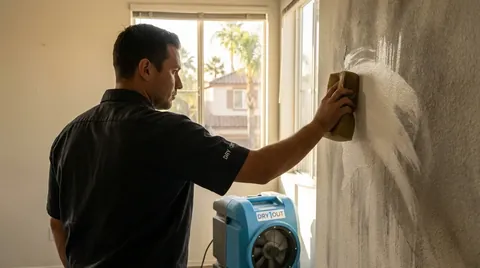
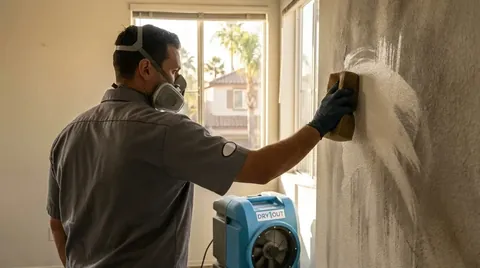
DEV AGENT: dry1-out-restoration-and-construction — blog + service images: real white Sprinter, gray uniform, no made-up marks (staging, REVIEW HOLD)
Cole, 2026-10-19 (SMS, screenshot of the blog listing): "And please make sure
our branding is consistent on everything." and 10-22: "And the photo on the
front page needs to be changed as well to reflect the correct vans."
Card 1d6284ef (refile of c1fbb4f7, blocked 10-22 on Gemini 402).

- Vans: 6 blog heroes with navy/orange vans repainted to the real white
  Sprinter livery (fleet_van repaint against LIVERY-REFERENCE, real logo pasted
  where it reads): best-water-damage-restoration-company-in-vista-ca,
  choosing-a-restoration-company, fire-damage-restoration-process,
  how-long-does-water-damage-restoration-take, signs-of-hidden-mold,
  storm-damage-insurance-claim-checklist. Follow-up edits took a Ford Transit
  and ladder racks out of the storm hero, a roof rack off fire-process, and
  invented lettering off the cap in choosing-a-restoration-company.
- Crew to the real gray uniform: water-damage-restoration-cost-ca hero; the
  3 posts that loaded images from images.dry1out.com (R2):
  best-fire-damage-restoration-company-vista-ca hero + section,
  who-to-call-after-house-fire-vista-ca hero + section (red polo with a white
  "DRY 1 OUT" mark), storm hero; services emergency-plumbing,
  smoke-damage-restoration (respirator + gloves added so it clears the PPE
  gate), water-leak-detection.
- Mold suits: mold-remediation-cost-vista-ca and signs-of-hidden-mold suits
  zipped closed over the maroon/navy shirts (also clears the open-suit PPE
[…]

Changed region(s): [[0.0938, 0.2687, 0.5312, 1.0], [0.625, 0.2985, 0.75, 0.5075], [0.2188, 0.0896, 0.3125, 0.209]]

diff --git a/src/content/blog/best-mold-remediation-company-vista-ca.md b/src/content/blog/best-mold-remediation-company-vista-ca.md
@@ -7,8 +7,8 @@ primary_keyword: "best mold remediation company in vista"
 secondary_keywords: ["mold remediation companies", "certified mold remediation", "professional mold remediation", "residential mold remediation", "mold remediation experts", "best mold remediation companies"]
 search_intent: "commercial"
 priority: 7
-hero: "https://images.dry1out.com/blog/2026/10/best-mold-remediation-company-vista-ca/hero.webp"
-og: "https://images.dry1out.com/blog/2026/10/best-mold-remediation-company-vista-ca/hero.webp"
+hero: "/images/blog/2026/10/best-mold-remediation-company-vista-ca/hero.webp"
+og: "/images/blog/2026/10/best-mold-remediation-company-vista-ca/hero.webp"
 generated_at: "2026-10-22T10:37:34Z"
 manual_override: false
 internal_links: ["/services/mold-remediation/", "/services/mold-inspection-testing/", "/service-areas/vista-ca/", "/blog/mold-remediation-cost-vista-ca/", "/blog/choosing-a-restoration-company/", "/"]
@@ -46,7 +46,7 @@ Dry 1 Out is an IICRC Certified Firm with technicians holding the AMRT credentia
 
 The company operates on a 24/7 phone line and works from a Vista office at 1235 Activity Dr, with a second office in Hayward covering the Bay Area. Its state license (#993442) can be verified directly through the [California Contractors State License Board's license lookup tool](https://www.cslb.ca.gov/OnlineServices/CheckLicenseII/CheckLicense.aspx). On Google, the company currently carries a 5.0 rating across 18 reviews. Before any remediation starts, the team documents the scope in writing and can pair the remediation work with [mold inspection and testing](/services/mold-inspection-testing/) to confirm the extent of growth and verify the job afterward.
 
-![How does Dry 1 Out Restoration and Construction meet that checklist: best mold remediation company in vista](https://images.dry1out.com/blog/2026/10/best-mold-remediation-company-vista-ca/section.webp)
+![How does Dry 1 Out Restoration and Construction meet that checklist: best mold remediation company in vista](/images/blog/2026/10/best-mold-remediation-company-vista-ca/section.webp)
 
 ## What about the other mold remediation companies people see mentioned for Vista?
 

diff --git a/src/content/blog/who-to-call-after-house-fire-vista-ca.md b/src/content/blog/who-to-call-after-house-fire-vista-ca.md
@@ -7,8 +7,8 @@ primary_keyword: "who to call after a house fire in vista"
 secondary_keywords: ["fire damage cleanup", "emergency board up after a fire", "fire damage restoration near me", "smoke damage restoration", "fire restoration checklist"]
 search_intent: "commercial"
 priority: 7
-hero: "https://images.dry1out.com/blog/2026/10/who-to-call-after-house-fire-vista-ca/hero.webp"
-og: "https://images.dry1out.com/blog/2026/10/who-to-call-after-house-fire-vista-ca/hero.webp"
+hero: "/images/blog/2026/10/who-to-call-after-house-fire-vista-ca/hero.webp"
+og: "/images/blog/2026/10/who-to-call-after-house-fire-vista-ca/hero.webp"
 generated_at: "2026-10-20T01:16:42Z"
 manual_override: false
 internal_links: ["/services/fire-damage-restoration/", "/services/emergency-board-up/", "/services/smoke-damage-restoration/", "/services/odor-removal/", "/service-areas/vista-ca/", "/"]
@@ -39,7 +39,7 @@ The order is 911, your insurance company, a restoration company, then your utili
 3. **A restoration company.** Handles [emergency board-up](/services/emergency-board-up/) of broken windows and compromised doors, [smoke damage restoration](/services/smoke-damage-restoration/), and any water left behind from putting the fire out.
 4. **Utilities.** If SDG&E or the water utility shut off service, confirm with them, not just your own eyes, before anything gets turned back on.
 
-![What is the right order of calls after a house fire: who to call after a house fire in vista](https://images.dry1out.com/blog/2026/10/who-to-call-after-house-fire-vista-ca/section.webp)
+![What is the right order of calls after a house fire: who to call after a house fire in vista](/images/blog/2026/10/who-to-call-after-house-fire-vista-ca/section.webp)
 
 ## What happens after the fire department clears the house?
 

diff --git a/src/content/blog/best-fire-damage-restoration-company-vista-ca.md b/src/content/blog/best-fire-damage-restoration-company-vista-ca.md
@@ -7,8 +7,8 @@ primary_keyword: "best fire damage restoration company in vista"
 secondary_keywords: ["fire damage restoration company", "fire restoration company near me", "fire and water damage restoration", "24/7 fire damage cleanup vista", "fire damage restoration companies near me"]
 search_intent: "commercial"
 priority: 7
-hero: "https://images.dry1out.com/blog/2026/10/best-fire-damage-restoration-company-vista-ca/hero.webp"
-og: "https://images.dry1out.com/blog/2026/10/best-fire-damage-restoration-company-vista-ca/hero.webp"
+hero: "/images/blog/2026/10/best-fire-damage-restoration-company-vista-ca/hero.webp"
+og: "/images/blog/2026/10/best-fire-damage-restoration-company-vista-ca/hero.webp"
 generated_at: "2026-10-18T00:14:10Z"
 manual_override: false
 internal_links: ["/services/fire-damage-restoration/", "/services/smoke-damage-restoration/", "/services/odor-removal/", "/services/emergency-board-up/", "/service-areas/vista-ca/", "/blog/choosing-a-restoration-company/", "/"]
@@ -50,7 +50,7 @@ A search for fire damage restoration in Vista turns up a mix of national franchi
 
 A company can be excellent at one phase of this job and weak at another. The checklist above is how you find out before you sign anything, not after.
 
-![What Should You Check Before Hiring Any Fire Damage Restoration Company in Vista: best fire damage restoration company in vista](https://images.dry1out.com/blog/2026/10/best-fire-damage-restoration-company-vista-ca/section.webp)
+![What Should You Check Before Hiring Any Fire Damage Restoration Company in Vista: best fire damage restoration company in vista](/images/blog/2026/10/best-fire-damage-restoration-company-vista-ca/section.webp)
 
 ## Why Does In-House Reconstruction Matter After a Fire?
 
